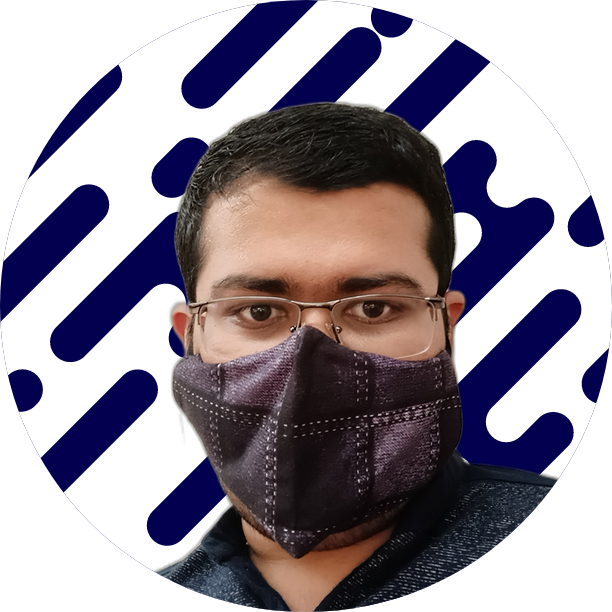
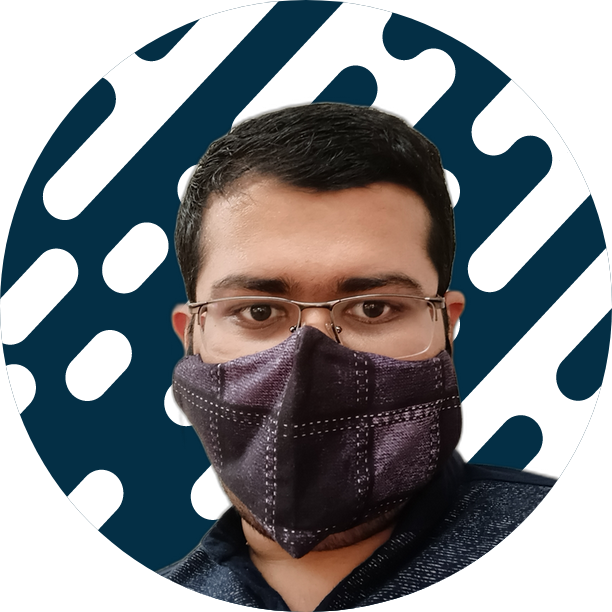
Made some optimizations for the background

diff --git a/src/components/Block.js b/src/components/Block.js
@@ -3,7 +3,7 @@ import React from "react";
 const Block = ({ index }) => {
   const dimension = Math.min(
     Math.max(Math.ceil(Math.random() * (index + 1)) * 30, 100),
-    125
+    100
   );
   const inlineStyle = {
     zIndex: 0,
@@ -11,7 +11,7 @@ const Block = ({ index }) => {
     width: dimension,
     position: "fixed",
     bottom: -dimension,
-    left: `${index * 10 > 90 ? index * 10 - 90 : index * 10}%`,
+    left: `${index * 15 > 90 ? index * 15 - 90 : index * 15}%`,
     backgroundColor: "#021f2e",
     animation: `float-around infinite 15s linear`,
     animationDelay: `${Math.floor(Math.random() * 20)}s`,

diff --git a/src/index.css b/src/index.css
@@ -197,13 +197,14 @@ header {
 /* BODY  */
 ::-webkit-scrollbar {
   width: 10px;
-  background-color: rgba(0, 0, 0, 0.2);
+  background: #fff;
+  z-index: 3;
 }
 ::-webkit-scrollbar-thumb {
-  background-color: #09753a;
+  background-color: #021f2e;
 }
 ::-webkit-scrollbar-thumb:hover {
-  background-color: #042f45;
+  background-color: #09753a;
 }
 
 body,

diff --git a/src/App.js b/src/App.js
@@ -9,7 +9,7 @@ import pfp from "./profile-pic.png";
 
 const blocksArray = () => {
   const blockArray = [];
-  for (let i = 0; i < 15; i++) {
+  for (let i = 0; i < 17; i++) {
     blockArray.push(<Block key={i} index={i} />);
   }
   return blockArray;
